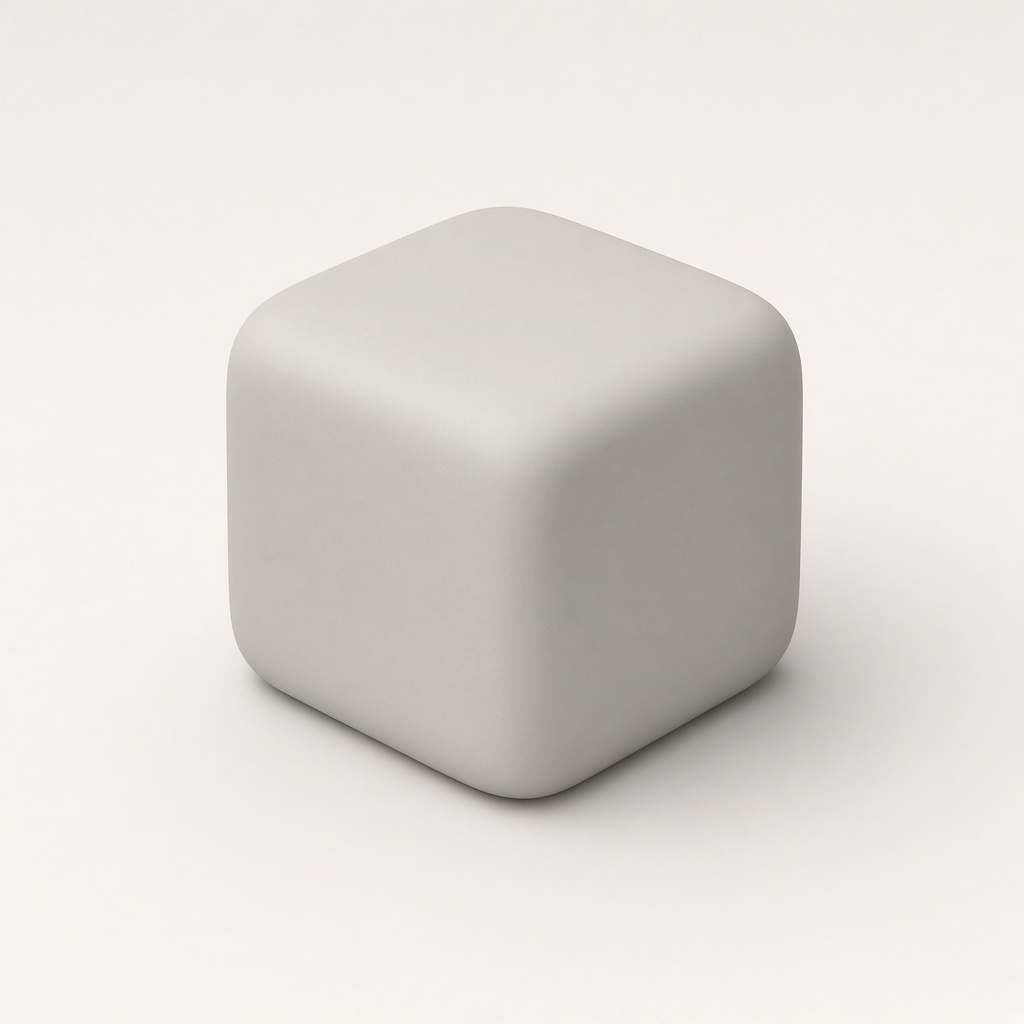
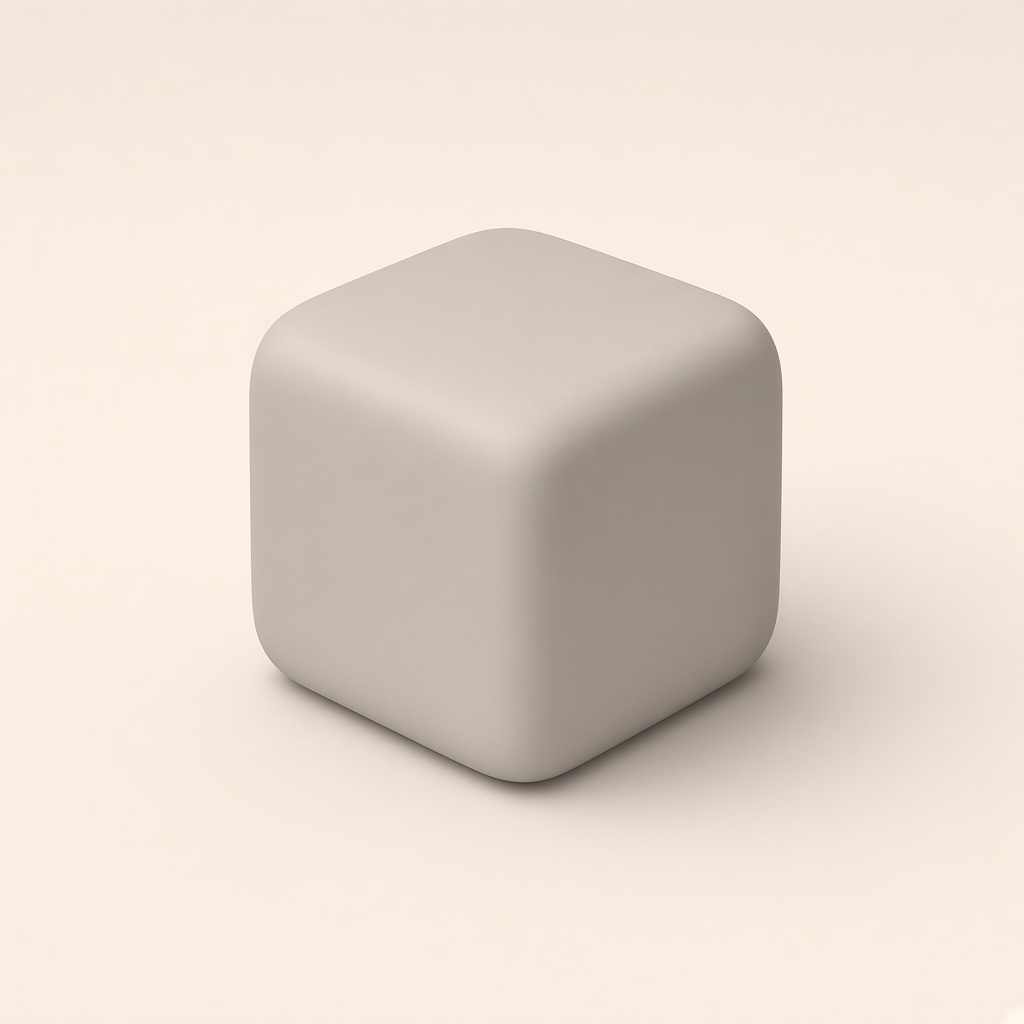
BIZ-407 Pick a stone family, and put the primary ring back on the shortlist.
The compare row is a standing capsule, a warm grey sphere, and a rounded cube. The add-on is a smaller stone torus the sphere settles onto. The shortlist ring is primary again, the Added button is narrower, and the carousel light is smaller.

Changed region(s): [[0.2188, 0.1875, 0.7812, 0.8125]]

diff --git a/assets/promo-ad.css b/assets/promo-ad.css
@@ -2000,14 +2000,14 @@ html.is-promo-opening.is-promo-depart .promo-opening {
   box-shadow:
     inset 0 1px 0 color-mix(in srgb, var(--ad-white) 80%, transparent),
     inset 0 -1px 0 color-mix(in srgb, var(--ad-ink) 4%, transparent),
-    0 0 0 3px var(--ad-line-strong),
-    0 14px 40px var(--ad-shadow);
+    0 0 0 3px var(--bizmis-primary),
+    0 14px 40px var(--bizmis-primary-glow);
 }
 
 .is-pose-grid.is-shortlist .promo-moments__card.is-go::after,
 .is-pose-grid.is-shortlist .promo-moments__card.is-pick::after,
 .is-pose-grid.is-shortlist .promo-moments__card.is-other::after {
-  opacity: 0;
+  opacity: 1;
   transition: opacity 420ms var(--promo-spring);
 }
 
@@ -2245,14 +2245,14 @@ html.is-promo-opening.is-promo-depart .promo-opening {
 .promo-moments__board.is-pose-close .promo-moments__card.is-pick .promo-moments__add {
   position: absolute;
   left: 50%;
-  right: 220px;
+  right: auto;
   top: 61%;
   bottom: auto;
-  width: auto;
-  height: 58px;
+  width: 200px;
+  height: 50px;
   margin: 0;
-  border-radius: 16px;
-  font-size: 20px;
+  border-radius: 14px;
+  font-size: 17px;
 }
 
 .is-pose-doubt:not(.is-settled):not(.is-reduced) .promo-moments__card.is-pick {
@@ -2338,6 +2338,20 @@ html.is-promo-opening.is-promo-depart .promo-opening {
 .is-pose-extra .promo-moments__card.is-extra .promo-moments__glyph,
 .is-pose-bundle .promo-moments__card.is-extra .promo-moments__glyph {
   opacity: 1;
+}
+
+.is-pose-extra .promo-moments__card.is-extra .promo-moments__glyph img,
+.is-pose-bundle .promo-moments__card.is-extra .promo-moments__glyph img {
+  transform: scale(var(--promo-accessory-scale, 0.6));
+}
+
+.is-pose-extra .promo-moments__card.is-pick .promo-moments__glyph,
+.is-pose-bundle .promo-moments__card.is-pick .promo-moments__glyph {
+  transform: translateY(var(--promo-sphere-settle, 6px));
+}
+
+.is-pose-extra:not(.is-settled):not(.is-reduced) .promo-moments__card.is-pick .promo-moments__glyph {
+  animation: promo-moments-sphere-settle 420ms cubic-bezier(0.22, 1, 0.36, 1) 900ms both;
 }
 
 .is-pose-bundle .promo-moments__card.is-extra::after {
@@ -3161,6 +3175,11 @@ html.is-promo-opening.is-promo-depart .promo-opening {
   }
 }
 
+@keyframes promo-moments-sphere-settle {
+  from { transform: translateY(0); }
+  to { transform: translateY(var(--promo-sphere-settle, 6px)); }
+}
+
 @keyframes promo-moments-addon-in {
   0% { opacity: 0; transform: translate3d(-50%, -36%, 0) scale(0.94); }
   100% { opacity: 1; transform: translate3d(-50%, -50%, 0) scale(1); }
@@ -3948,9 +3967,9 @@ html.is-promo-ready .promo-opening__boot {
   transform: none;
   border-radius: 0;
   opacity: 1;
-  filter: blur(84px);
+  filter: blur(56px);
   background: radial-gradient(
-    ellipse 112% 96% at 50% 46%,
+    ellipse 72% 58% at 50% 46%,
     color-mix(in srgb, var(--promo-clerk-glow, transparent) 30%, transparent),
     color-mix(in srgb, var(--promo-clerk-glow, transparent) 10%, transparent) 50%,
     transparent 76%

diff --git a/assets/theme.js b/assets/theme.js
@@ -634,14 +634,17 @@
   const PROMO_MOMENT_PICK_INDEX = 5;
   const PROMO_MOMENT_GO_INDEX = 0;
   const PROMO_MOMENT_OTHER_INDEX = 3;
-  const PROMO_COMPARE_SET = {
-    shape: 'sphere',
-    tints: { go: 'stone', pick: 'sand', other: 'grey' },
-  };
-  const PROMO_ACCESSORY_SHAPE = 'capsule';
+  const PROMO_COMPARE_TINT = 'stone';
+  const PROMO_COMPARE_SHAPES = { go: 'capsule', pick: 'sphere', other: 'rounded-cube' };
+  const PROMO_ACCESSORY_SHAPE = 'torus';
+  const PROMO_ACCESSORY_TINT = 'stone';
+  const PROMO_ACCESSORY_SCALE = 0.6;
+  const PROMO_SPHERE_SETTLE_PX = 6;
   const PROMO_TINT_FILE = {
-    sphere: { stone: 'sphere-b', sand: 'sphere-c', grey: 'sphere' },
-    capsule: { stone: 'capsule', sand: 'capsule-b', grey: 'capsule-c' },
+    sphere: { stone: 'sphere-b' },
+    capsule: { stone: 'capsule' },
+    'rounded-cube': { stone: 'rounded-cube' },
+    torus: { stone: 'torus-b' },
   };
   const PROMO_MOMENT_GRID_PITCH_X = 168;
   const PROMO_MOMENT_GRID_PITCH_Y = 208;
@@ -718,9 +721,9 @@
         scale: PROMO_CLAY_SCALES[Math.floor(rand() * PROMO_CLAY_SCALES.length)],
       });
     }
-    looks[PROMO_MOMENT_GO_INDEX] = lookForTint(PROMO_COMPARE_SET.shape, PROMO_COMPARE_SET.tints.go);
-    looks[PROMO_MOMENT_PICK_INDEX] = lookForTint(PROMO_COMPARE_SET.shape, PROMO_COMPARE_SET.tints.pick);
-    looks[PROMO_MOMENT_OTHER_INDEX] = lookForTint(PROMO_COMPARE_SET.shape, PROMO_COMPARE_SET.tints.other);
+    looks[PROMO_MOMENT_GO_INDEX] = lookForTint(PROMO_COMPARE_SHAPES.go, PROMO_COMPARE_TINT);
+    looks[PROMO_MOMENT_PICK_INDEX] = lookForTint(PROMO_COMPARE_SHAPES.pick, PROMO_COMPARE_TINT);
+    looks[PROMO_MOMENT_OTHER_INDEX] = lookForTint(PROMO_COMPARE_SHAPES.other, PROMO_COMPARE_TINT);
     return looks;
   }
 
@@ -735,8 +738,8 @@
     };
   }
 
-  function accessoryLook(pick) {
-    return lookForTint(PROMO_ACCESSORY_SHAPE, pick?.tint || PROMO_COMPARE_SET.tints.pick);
+  function accessoryLook() {
+    return lookForTint(PROMO_ACCESSORY_SHAPE, PROMO_ACCESSORY_TINT);
   }
 
   function applyClayLook(card, look) {
@@ -759,7 +762,9 @@
     cards.forEach((card, index) => applyClayLook(card, looks[index]));
     const extra = board.querySelector('.promo-moments__card.is-extra');
     const pick = looks[PROMO_MOMENT_PICK_INDEX];
-    if (extra && pick) applyClayLook(extra, accessoryLook(pick));
+    if (extra && pick) applyClayLook(extra, accessoryLook());
+    board.style.setProperty('--promo-accessory-scale', String(PROMO_ACCESSORY_SCALE));
+    board.style.setProperty('--promo-sphere-settle', `${PROMO_SPHERE_SETTLE_PX}px`);
     board.dataset.clayReady = '1';
   }
 
